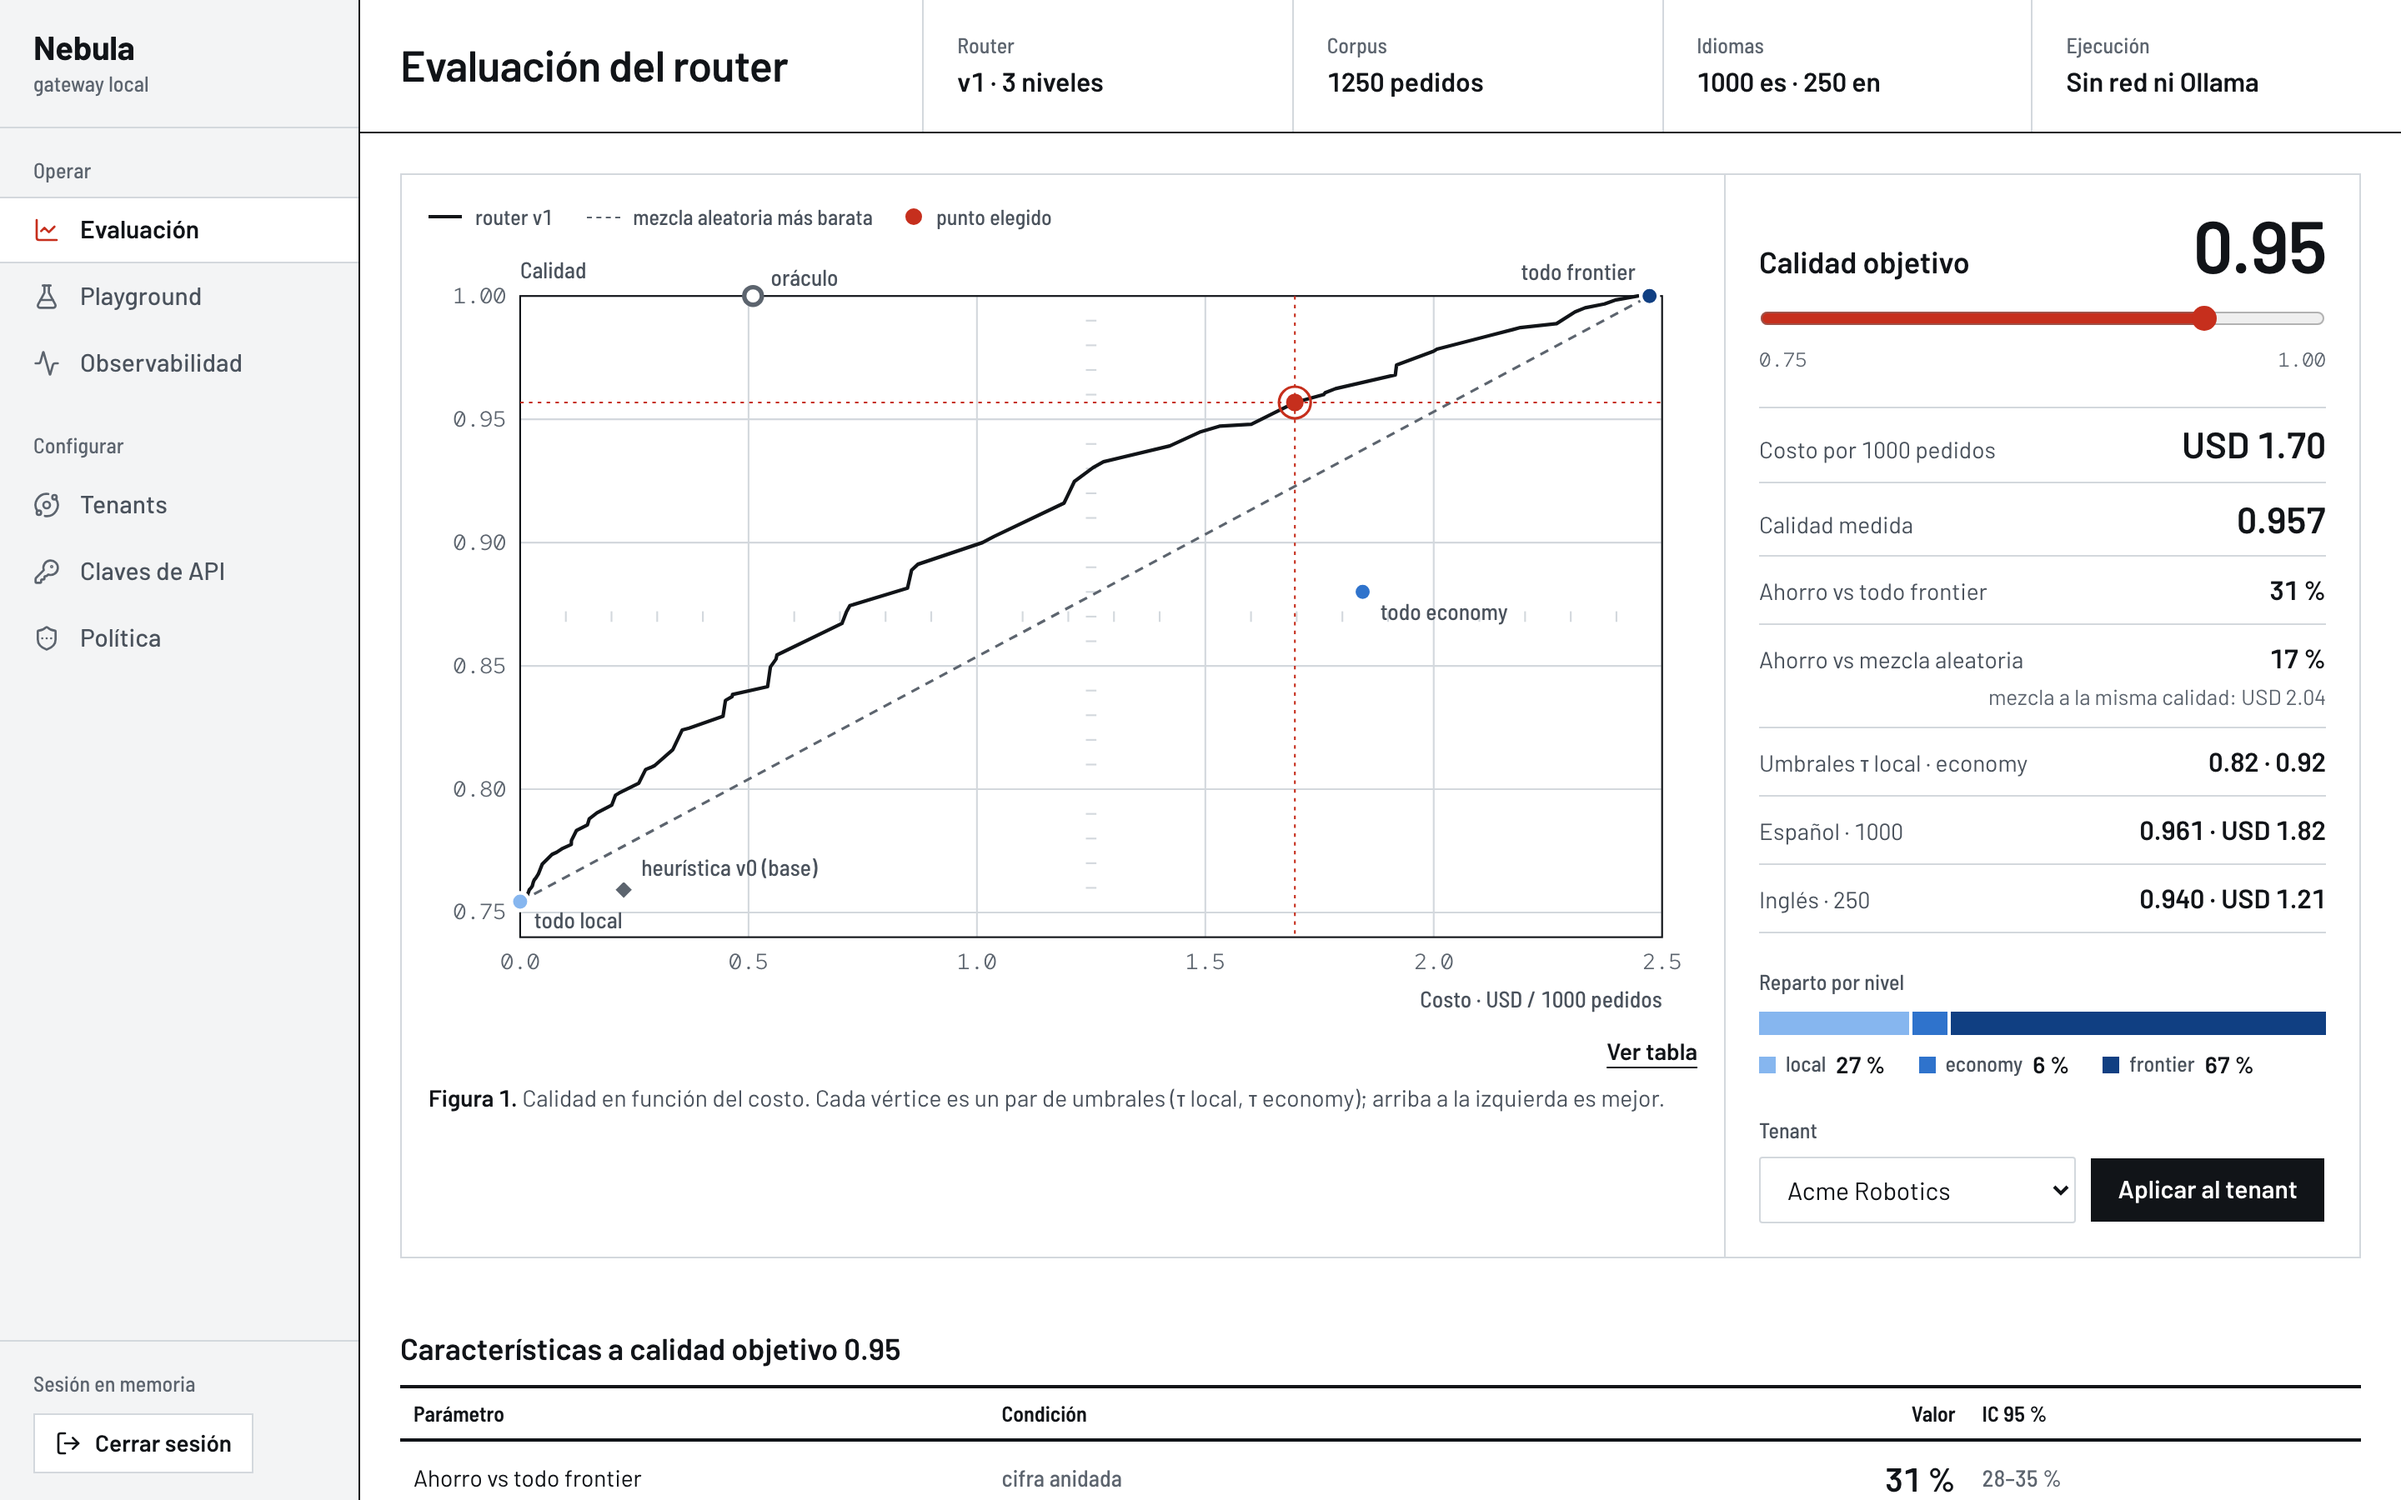
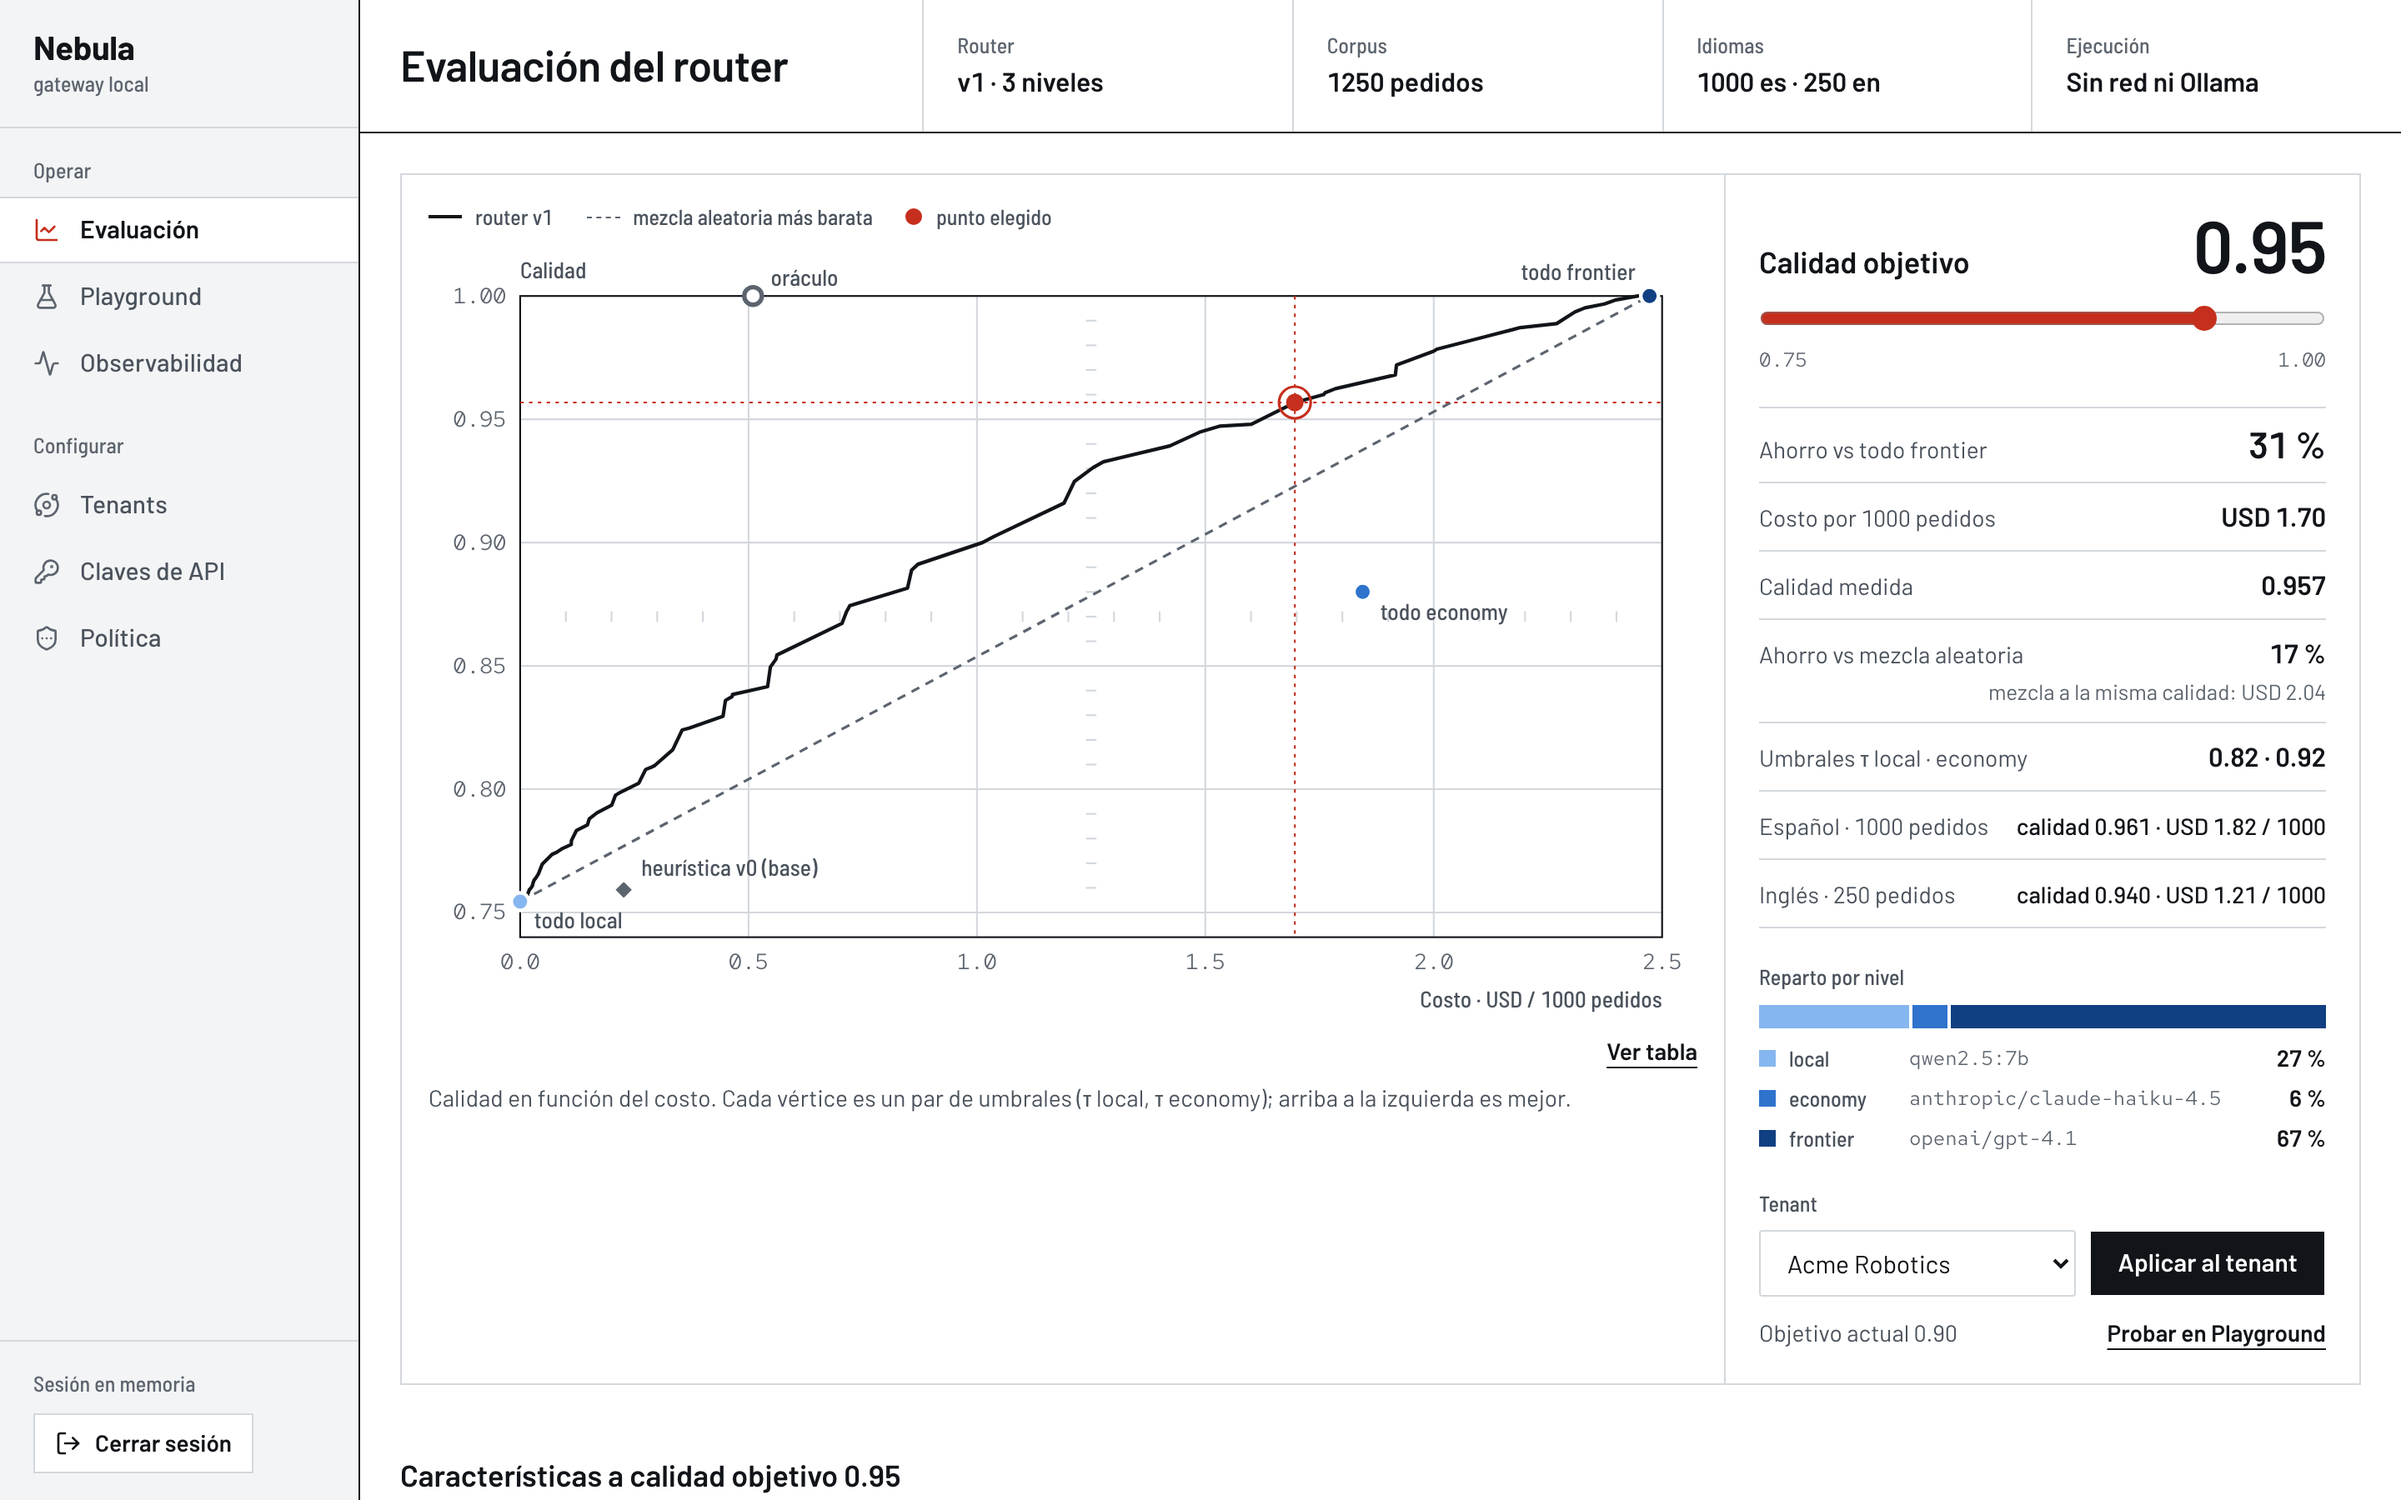
docs(tesis): recapture the console figures
Figures 10.3 (Política), 10.6 (Evaluación), 10.7 (Playground) and 11.1
(Observabilidad) recaptured from the fixed console at 1440 x 900, scale 2
(2880 x 1800), tenant Acme Robotics at objective 0.90, learned router on,
mock premium provider, ledger seeded with scripts/seed_demo_data.py. No
capture carries an in-app "Figura N.".

- 10.6: the slider moved to 0.95 without applying it, the point the
  caption and the characteristics table describe (31 %, USD 1.70, 0.957).
- 10.7: the "Capital de Australia" example, routed to local with
  p 0.8328 >= tau 0.76.

Text: the 10.7 caption now quotes the probability on screen (0.83, was
0.80); the paragraph before it no longer says the cascade always shows
"las dos probabilidades": for a local answer it shows the one comparison
the router made and marks the economy stage as not evaluated.

Claude-Session: https://claude.ai/code/session_012JwPQqsnEebt9XQ2BG378E

diff --git a/docs/tfc/tesis/10-diseno.md b/docs/tfc/tesis/10-diseno.md
@@ -198,9 +198,9 @@ los dos clasificadores, se traza la frontera y se escribe el artefacto que carga
 la frontera, mueve un control entre 0.75 y 1.00 y el simulador reproduce, sin llamar a ningún
 modelo, cómo se repartirían los 1250 prompts del corpus entre los tres niveles y cuánto costarían.
 Cuando elige un punto, lo aplica al tenant, y desde el pedido siguiente el router usa ese objetivo
-de calidad. En el Playground, cada respuesta muestra por qué se eligió su nivel (Figura 10.7): las dos
-probabilidades, los umbrales del punto vigente y el nivel resultante, dibujados como una cascada
-en la que solo la rama elegida queda marcada.
+de calidad. En el Playground, cada respuesta muestra por qué se eligió su nivel (Figura 10.7): las
+probabilidades que el router comparó con los umbrales del punto vigente y el nivel resultante,
+dibujados como una cascada en la que solo la rama elegida queda marcada.
 
 ![Figura 10.6](figuras/consola-evaluacion.png)
 
@@ -211,5 +211,5 @@ resultan.
 ![Figura 10.7](figuras/consola-playground.png)
 
 **Figura 10.7.** Playground con el panel "Por qué este nivel": el router mandó el pedido al modelo
-local porque su probabilidad (0.80) superó el umbral del punto vigente (0.76); el tenant de demo
+local porque su probabilidad (0.83) superó el umbral del punto vigente (0.76); el tenant de demo
 tiene aplicado el objetivo 0.90.
